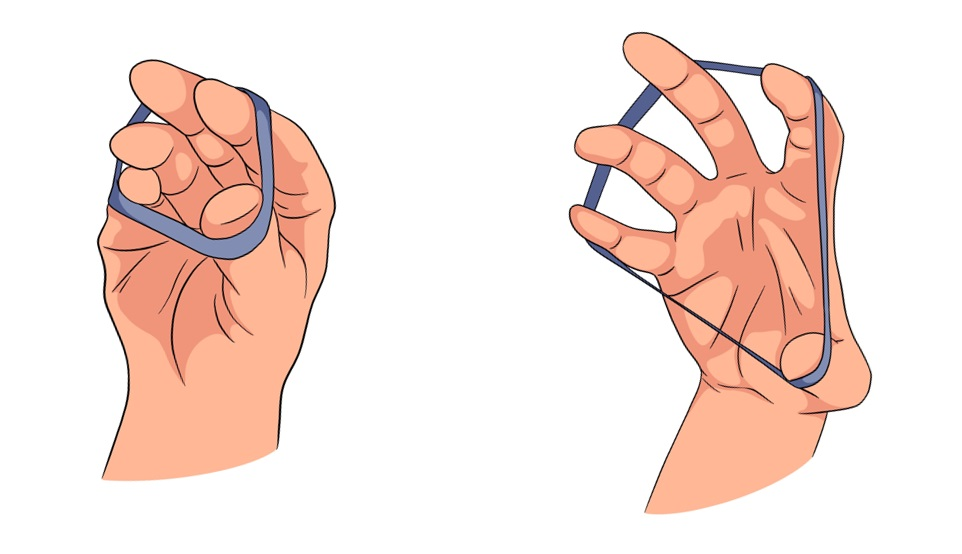
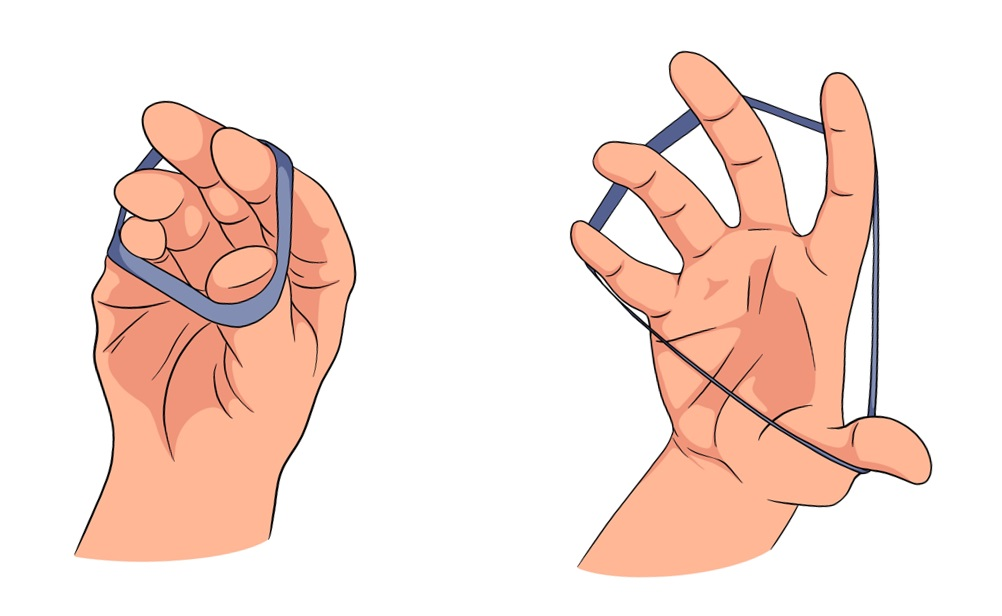
added images elbow

Changed region(s): [[0.5613, 0.0614, 0.9356, 0.9513], [0.0624, 0.0921, 0.3742, 0.9206]]

diff --git a/cotovelo/cotovelo_all.html b/cotovelo/cotovelo_all.html
@@ -523,7 +523,7 @@
             <div class="flex flex-col bg-white rounded-lg">
               <img
                 class="h-40 w-72 object-contain rounded-b-lg"
-                src="../images_elbow/ex_3.jpg"
+                src="../images_elbow/ex_3_v2.jpg"
                 alt=""
                 data-img="../images_elbow/external_rotation.png"
               />
@@ -588,7 +588,7 @@
             <div class="flex flex-col bg-white rounded-lg">
               <img
                 class="h-40 w-72 object-contain rounded-b-lg"
-                src="../images_elbow/ex_4.jpg"
+                src="../images_elbow/ex_4_v2.jpg"
                 alt=""
                 data-img="../images_elbow/external_rotation.png"
               />
@@ -628,7 +628,7 @@
             <div class="flex flex-col bg-white rounded-lg">
               <img
                 class="h-40 w-72 object-contain rounded-b-lg"
-                src="../images_elbow/ex_5.jpg"
+                src="../images_elbow/ex_5_v2.jpg"
                 alt=""
                 data-img="../images_elbow/ex_5.png"
               />
@@ -861,7 +861,7 @@
             <div class="flex flex-col bg-white rounded-lg">
               <img
                 class="h-40 w-72 object-contain rounded-b-lg"
-                src="../images_elbow/ex_10.jpg"
+                src="../images_elbow/ex_10_v2.jpg"
                 alt=""
                 data-img="../images_elbow/external_rotation.png"
               />
@@ -901,7 +901,7 @@
             <div class="flex flex-col bg-white rounded-lg">
               <img
                 class="h-40 w-72 object-contain rounded-b-lg"
-                src="../images_elbow/ex_11.jpg"
+                src="../images_elbow/ex_11_v2.jpg"
                 alt=""
                 data-img="../images_elbow/external_rotation.png"
               />
@@ -1393,7 +1393,7 @@
             <div id="individual_card_body" class="flex px-4 py-2">
               <img
                 class="h-40 w-2/5 object-contain"
-                src="../images_elbow/ex_3.jpg"
+                src="../images_elbow/ex_3_v2.jpg"
                 alt=""
                 data-img="../images_elbow/internal_rotation.jpg"
               />
@@ -1423,7 +1423,7 @@
             <div id="individual_card_body" class="flex p-4">
               <img
                 class="h-40 w-2/5 object-cover"
-                src="../images_elbow/ex_4.jpg"
+                src="../images_elbow/ex_4_v2.jpg"
                 alt=""
                 data-img="../images_elbow/internal_rotation.jpg"
               />
@@ -1452,9 +1452,9 @@
             <div id="individual_card_body" class="flex p-4 justify-center items-center">
               <img
                 class="h-40 w-2/5 object-contain"
-                src="../images_elbow/ex_5.jpg"
+                src="../images_elbow/ex_5_v2.jpg"
                 alt=""
-                data-img="../images_elbow/ex_5.jpg"
+                data-img="../images_elbow/ex_5_v2.jpg"
               />
               <div class="flex justify-center items-center w-3/5">
                 <div class="p-4 rounded-b-lg">
@@ -1629,7 +1629,7 @@
             <div id="individual_card_body" class="flex px-4 py-2">
               <img
                 class="h-40 w-2/5 object-contain"
-                src="../images_elbow/ex_10.jpg"
+                src="../images_elbow/ex_10_v2.jpg"
                 alt=""
                 data-img="../images_elbow/internal_rotation.jpg"
               />
@@ -1661,7 +1661,7 @@
             <div id="individual_card_body" class="flex px-4 py-2">
               <img
                 class="h-40 w-2/5 object-contain"
-                src="../images_elbow/ex_11.jpg"
+                src="../images_elbow/ex_11_v2.jpg"
                 alt=""
                 data-img="../images_elbow/internal_rotation.jpg"
               />
